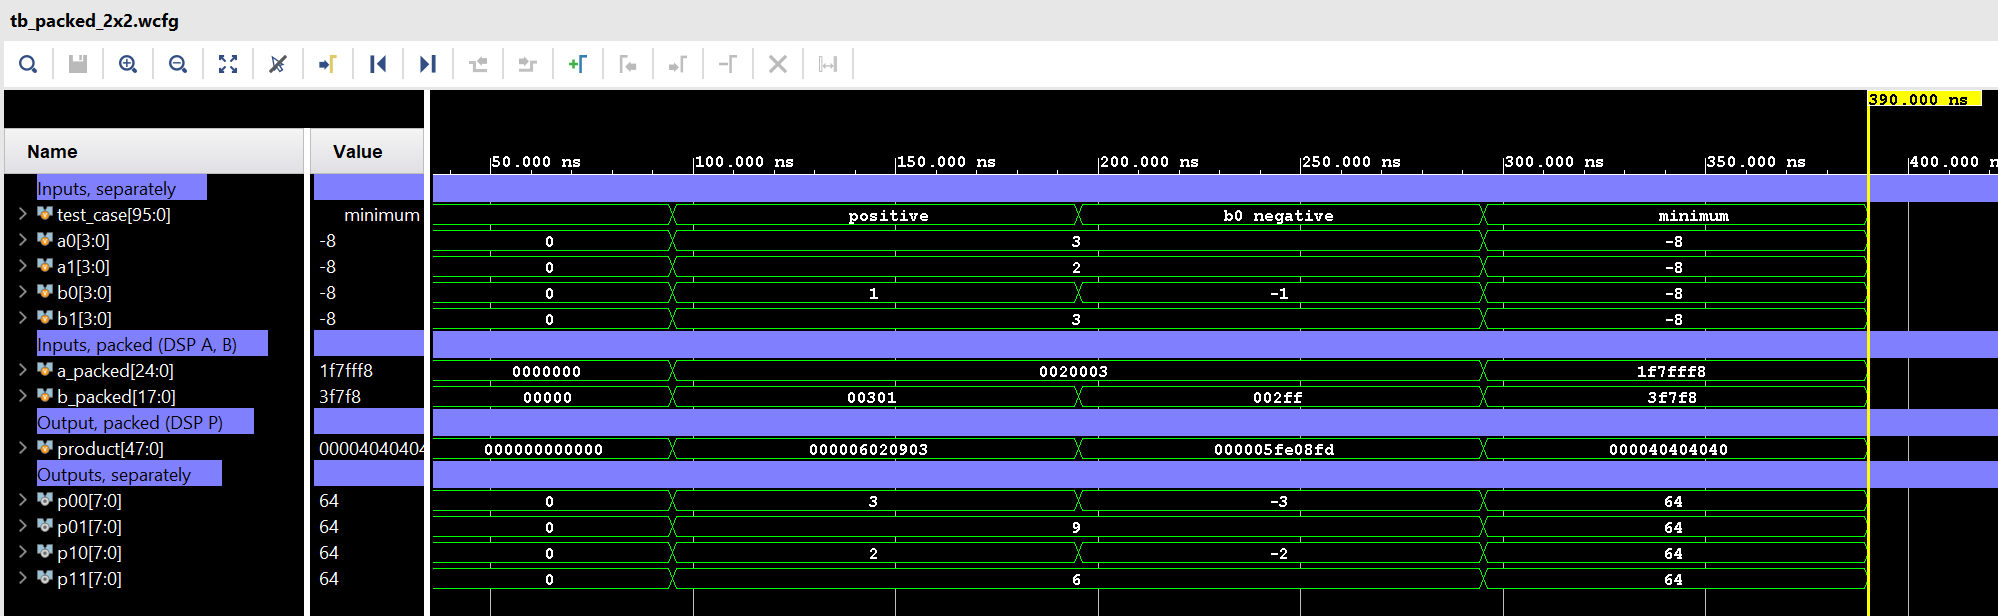
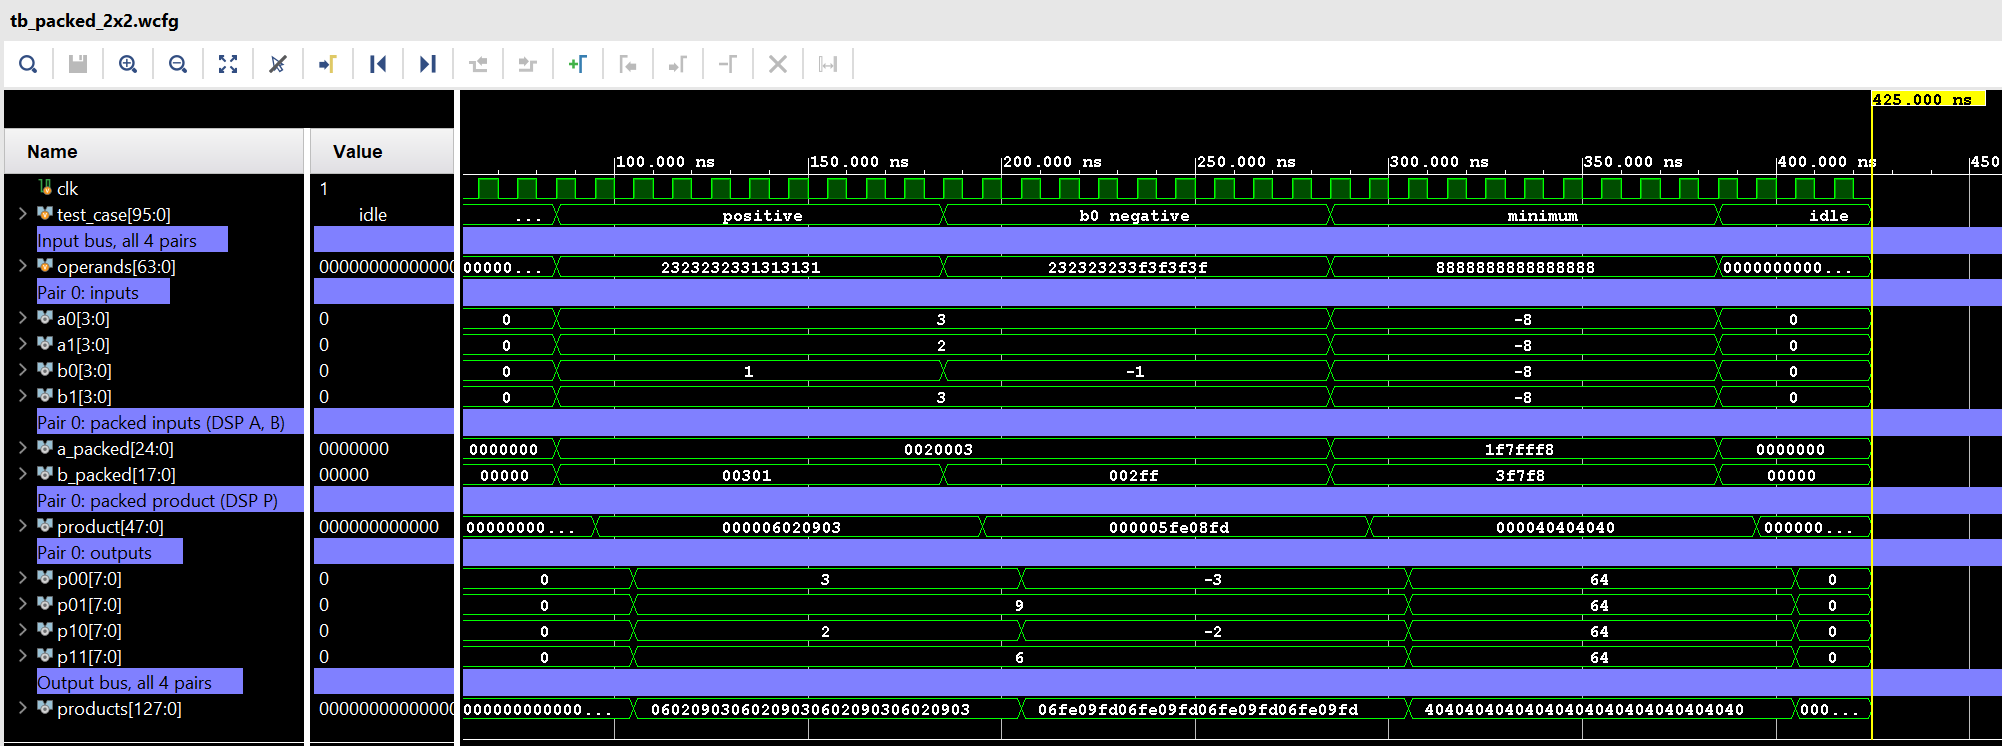
Operand Packing: waveform with real clock timing and the complete input and output buses

diff --git a/posts/on-request/operand-packing.md b/posts/on-request/operand-packing.md
@@ -326,7 +326,7 @@ All 1,048,576 products match the separate multiplications.
 
 ![](images/dsp48-operand-packing/wave_2x2_fixed.png)
 
-**The waveform shows three test cases for pair 0. The testbench displays copies of the inputs delayed by two clocks and a copy of the packed product delayed by one clock. This lines them up with the corrected outputs, making each test case easier to follow.**
+**The waveform shows three test cases for pair 0, along with the complete `operands` and `products` buses. The packed product appears one clock after the inputs, and the corrected outputs one clock after that.**
 
 ## **4. Summary** {#sec-4}
 
